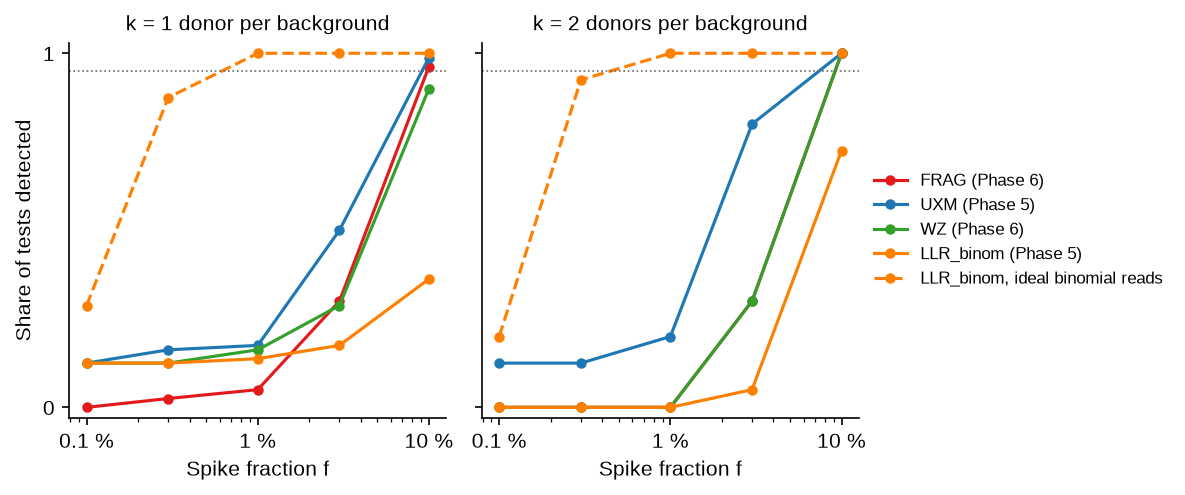
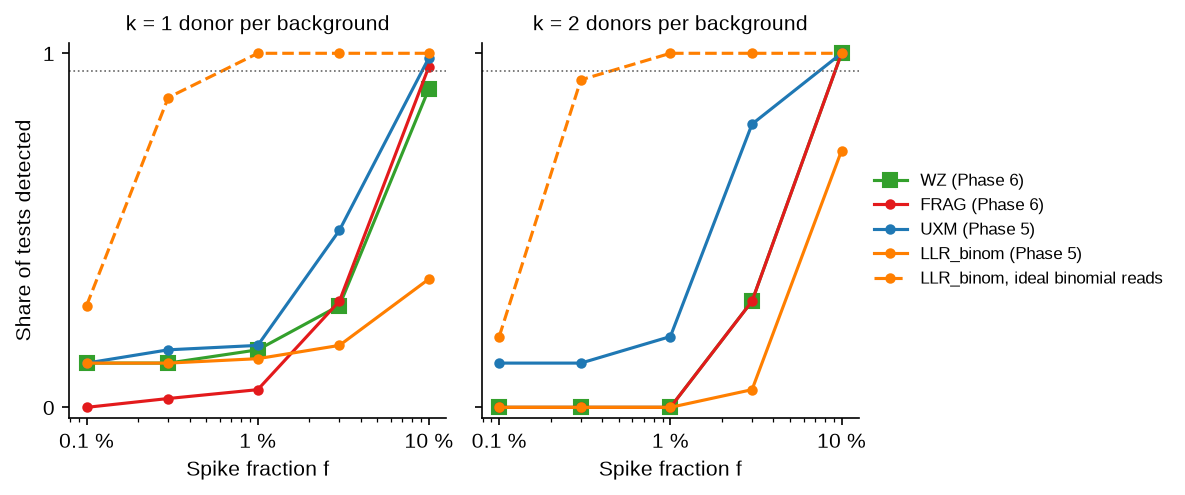
README: state the k = 2 patient-plasma bound from the f grid
The median LoD on the tumour-DNA scale at k = 2 is bounded below by
0.03 x TF = 1.2 %, because the SRR24725519 LoD is known only to lie
between f = 3 % and 10 %. The interpolated 3.96 % is kept as a labelled
point value. Also: read-pair counts now cite the sample sheet; the
Fig. 4 caption gives the ideal-binomial FPR at k = 1 and the WZ curve
gets square markers so it no longer hides FRAG; the Phase 6
pre-registration notes that its provenance wording was edited after
scoring (rules unchanged; scored version 066688f).

diff --git a/scripts/phase6_figures.py b/scripts/phase6_figures.py
@@ -56,19 +56,22 @@ def hct116():
     p5 = p5[p5.set == "tumour"]
     p6 = p6[(p6.set == "tumour") & (p6["rule"] == "bound")]
     lines = [
-        ("FRAG (Phase 6)", p6[(p6.rung == "real") & (p6.score == "FRAG")], PAIRED[5], "-"),
-        ("UXM (Phase 5)", p5[(p5.rung == "real") & (p5.score == "UXM")], PAIRED[1], "-"),
-        ("WZ (Phase 6)", p6[(p6.rung == "real") & (p6.score == "WZ")], PAIRED[3], "-"),
+        ("WZ (Phase 6)", p6[(p6.rung == "real") & (p6.score == "WZ")], PAIRED[3], "-", "s", 7),
+        ("FRAG (Phase 6)", p6[(p6.rung == "real") & (p6.score == "FRAG")], PAIRED[5], "-",
+         "o", 4),
+        ("UXM (Phase 5)", p5[(p5.rung == "real") & (p5.score == "UXM")], PAIRED[1], "-", "o",
+         4),
         ("LLR_binom (Phase 5)", p5[(p5.rung == "real") & (p5.score == "LLR_binom")],
-         PAIRED[7], "-"),
+         PAIRED[7], "-", "o", 4),
         ("LLR_binom, ideal binomial reads", p5[(p5.rung == "binom_real")
-                                               & (p5.score == "LLR_binom")], PAIRED[7], "--"),
+                                               & (p5.score == "LLR_binom")], PAIRED[7], "--",
+         "o", 4),
     ]
     fig, axes = plt.subplots(1, 2, figsize=(8, 3.4), sharey=True)
     for ax, k in zip(axes, KS, strict=True):
-        for label, d, col, ls in lines:
+        for label, d, col, ls, mk, ms in lines:
             d = d[d.k == k].sort_values("f")
-            ax.plot(d.f, d.rate, ls, color=col, marker="o", ms=4, lw=1.5, label=label)
+            ax.plot(d.f, d.rate, ls, color=col, marker=mk, ms=ms, lw=1.5, label=label)
         _axes_style(ax, k)
     axes[0].set_ylabel("Share of tests detected")
     axes[1].legend(frameon=False, fontsize=8, loc="center left", bbox_to_anchor=(1.0, 0.5))

diff --git a/README.md b/README.md
@@ -16,8 +16,8 @@ donors and cancer patients.
 | Does a better score close the gap? | No. The new FRAG score reaches the same LoD as the simple UXM fragment score, at a lower false-positive rate. A second new score, WZ, does no better. |
 | Does real patient plasma behave like the cell line? | It is harder to detect. For one of three patient runs with measurable tumour DNA, 95 % detection is reached within the tested range (at k = 2 donors per background). On the tumour-DNA scale, the median LoD is at least 4 % at k = 1. |
 
-The short version: with a 500-CpG colorectal marker panel and 14–17 million read pairs
-per sample (medians), this kind of test detects a few per cent of tumour DNA, not the 0.01–0.1 % that
+The short version: with a 500-CpG colorectal marker panel and about 15 million read pairs
+per healthy donor (median; range 8–26 million, `pipeline/samples/phase5_samples.tsv`), this kind of test detects a few per cent of tumour DNA, not the 0.01–0.1 % that
 minimal residual disease (MRD) monitoring needs. Between-person variation in healthy
 methylation and fragment-level effects are the limits, not sequencing depth.
 
@@ -229,7 +229,8 @@ Figure 4. Share of tests detected against spike fraction f, tumour marker set, k
 donors per background. Solid lines: real reads. Dashed line: the same tests with reads
 redrawn as ideal binomial calls (LLR_binom only). Dotted line: 95 %. UXM, WZ and LLR_binom
 exceed the 5 % FPR target at k = 1 (2 of 16 spike-free tests), and UXM at k = 2 (1 of 8).
-Their curves therefore start above 0.
+Their curves therefore start above 0. The ideal-binomial rung also exceeds it at k = 1
+(4 of 16). At k = 2, the WZ (squares) and FRAG curves coincide.
 
 | Score | k | LoD, nominal f | LoD, effective share | Eval FPR |
 |---|---|---|---|---|
@@ -286,11 +287,12 @@ Primary endpoint: FRAG, tumour set, the 3 CRC runs with TF above 0
 | k | Runs with a finite LoD | SRR24725519 LoD (f) | Median LoD_tumour over the 3 runs | HCT116 effective share at LoD |
 |---|---|---|---|---|
 | 1 | 0 of 3 | above 10 % (censored) | at least 4.09 % (all 3 censored) | 2.15 % |
-| 2 | 1 of 3 | between 3 % and 10 % | at least 3.96 % (2 of 3 censored) | 2.01 % |
+| 2 | 1 of 3 | between 3 % and 10 % | at least 1.2 % (2 of 3 censored; 3.96 % with the interpolated LoD) | 2.01 % |
 
 - At k = 2, SRR24725519 jumps from 1 of 40 tests detected at f = 3 % to 39 of 40 at f = 10 %
   (95 % interval 0.87–1.00). The LoD can lie anywhere between those grid points. The value
-  interpolated on log f is 9.7 %, which gives the LoD_tumour of 3.96 % above. Its effective
+  interpolated on log f is 9.7 % (LoD_tumour 3.96 %). Only the grid bracket is
+  certain, so the median over the 3 runs is bounded below by 0.03 × TF 0.409 = 1.2 %. Its effective
   share at the LoD is at most 1.88 %. So the patient run and HCT116 cannot be told apart.
 - SRR24725517 has the highest TF but is rarely detected. Its reads cover the tumour blocks
   as well as SRR24725519, so depth is not the cause. Its tumour may not share the methylation

diff --git a/pipeline/PREREGISTERED_PHASE6.md b/pipeline/PREREGISTERED_PHASE6.md
@@ -119,6 +119,9 @@ Other design-stage observations:
 
 ## Amendment 1 (2026-10-10): effective share primary, length-matched spike rung
 
+_Edited 2026-10-13: the provenance sentences of Amendments 1 and 2 were reworded for a
+public reader. No rule changed. The version in force at scoring is commit `066688f`._
+
 Decision of the project lead, after a survey of public spike sources. This
 amendment is committed before any eval donor, cancer or spike-in test is scored with a
 Phase 6 method. Nothing above is removed; where this section differs, this section applies.
